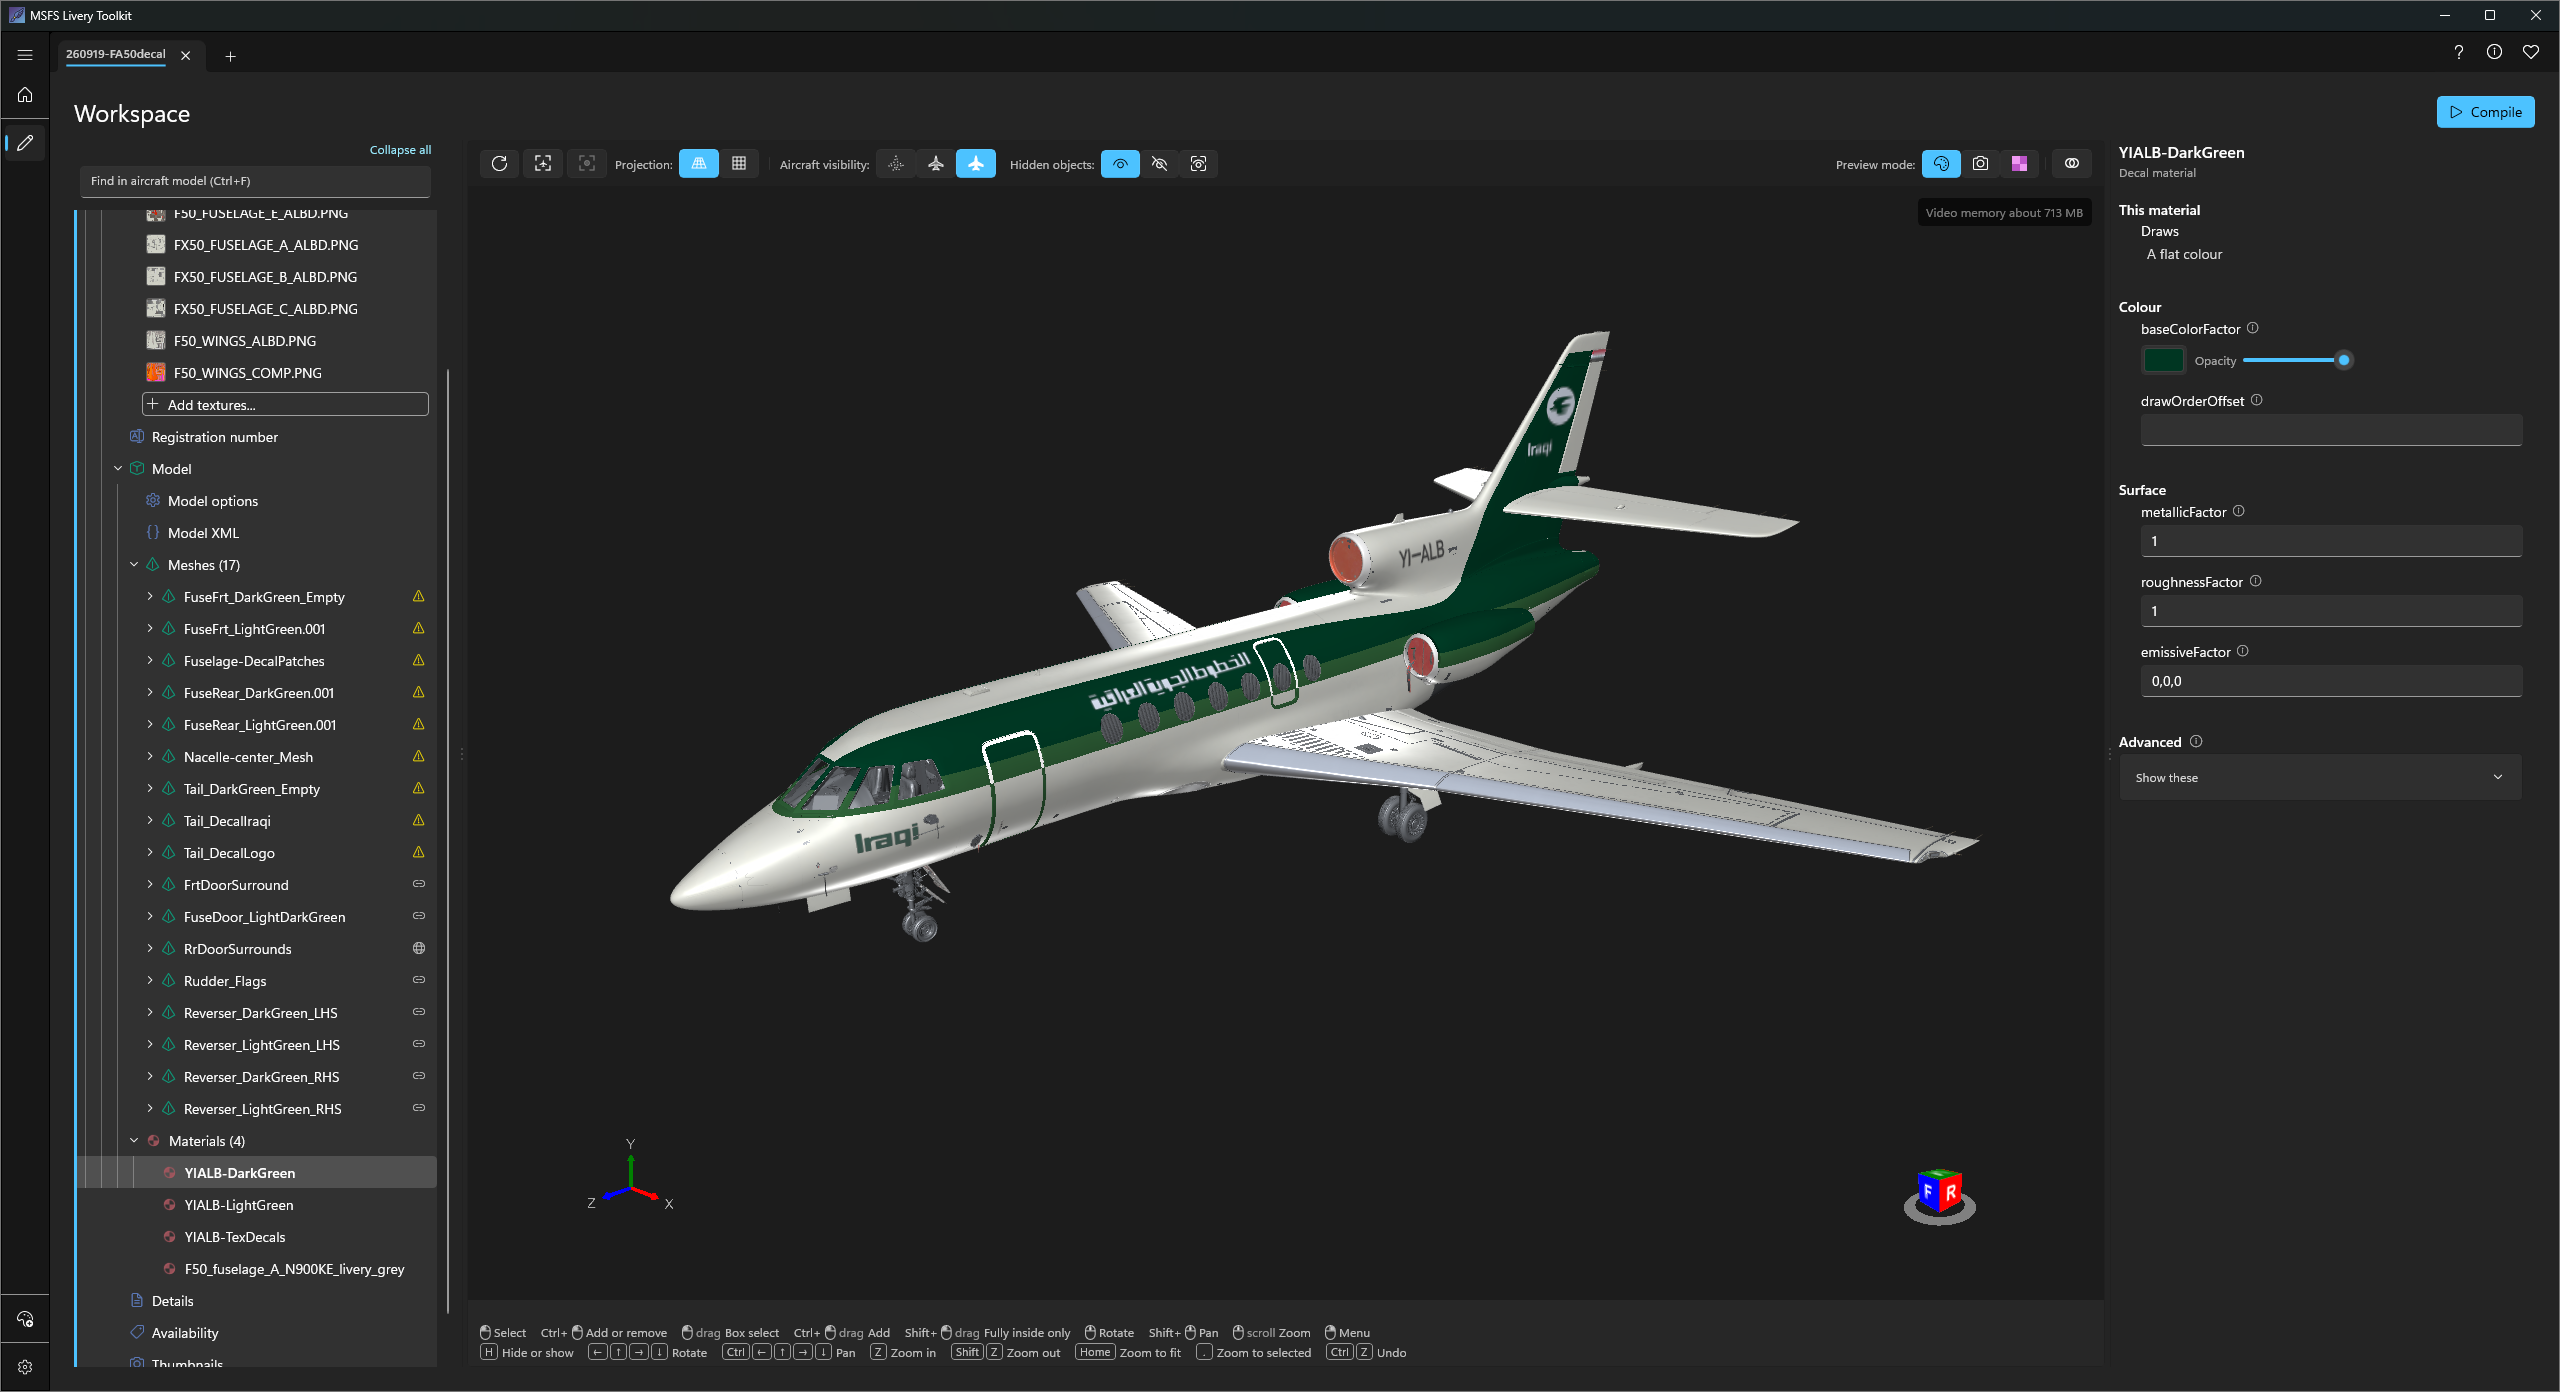
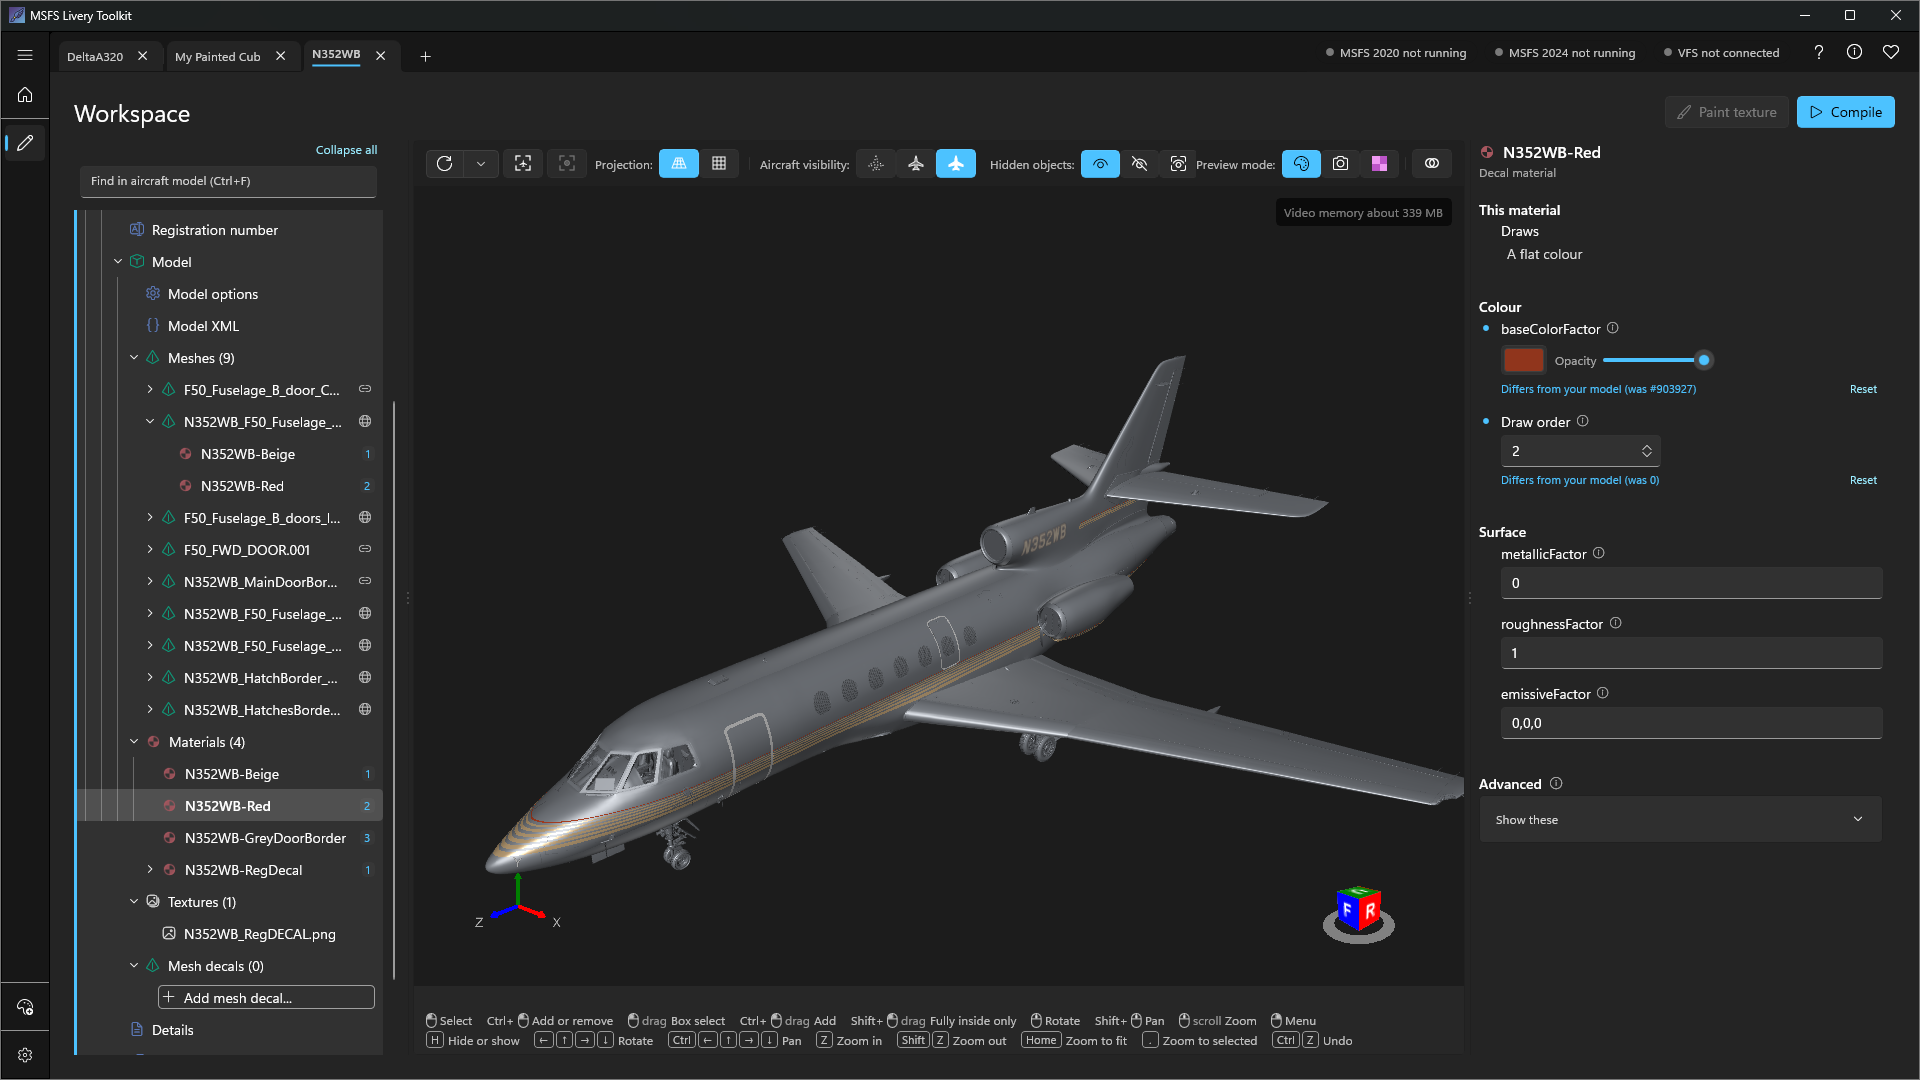
Docs for 2.2: mesh decal screenshots, Add MSFS 2020 aircraft button
The three Mesh decals page screenshots, mesh-material.png retaken with the
draw order badges and number box, and a line for the "Add MSFS 2020 aircraft"
button in Configuration and Getting started.

diff --git a/docs/configuration.md b/docs/configuration.md
@@ -21,7 +21,7 @@ The **Settings** page holds the settings the toolkit needs to find your aircraft
 
 ## Aircraft
 
-- **Aircraft source folders:** the folders scanned for base aircraft. Your MSFS Community folders are detected automatically, so there is no need to add them; **Detect Community folders** finds them again if needed. Add any other folder, such as an add-on linker location, with **Add folder...**.
+- **Aircraft source folders:** the folders scanned for base aircraft. Your MSFS Community folders are detected automatically, so there is no need to add them; **Detect Community folders** finds them again if needed. Add any other folder, such as an add-on linker location, with **Add folder...**. If MSFS 2020 is installed, **Add MSFS 2020 aircraft** adds the folders that hold its stock and Marketplace aircraft.
 - **Excluded texture keywords:** textures whose name or folder contains one of these words are left out of the texture list when you add a livery or add textures, to filter out textures livery artists rarely need, such as "tire" or "gauge". Edit the list as you need; **Restore defaults** puts it back.
 
 ## Projects and output

diff --git a/docs/getting-started.md b/docs/getting-started.md
@@ -20,7 +20,7 @@ Grab the latest portable release using the button above. There is no installer: 
 
 Before you can discover aircraft or compile anything, open the **Settings** page and set up:
 
-- **Aircraft source folders:** the folders scanned for installed base aircraft. Use **Detect Community folders** to find them automatically, and / or **Add folder…** to point at a Community / add-on-linker location manually.
+- **Aircraft source folders:** the folders scanned for installed base aircraft. Use **Detect Community folders** to find them automatically, and / or **Add folder…** to point at a Community / add-on-linker location manually. On MSFS 2020, select **Add MSFS 2020 aircraft** to include its stock and Marketplace aircraft.
 - **At least one MSFS SDK path:** (2020 or 2024). The app auto-detects the default install locations; confirm or correct them here.
 
 If either is missing, the Home page shows a **"Let's get you set up"** banner with a shortcut to Settings, and *Discover aircraft* stays disabled until it's resolved.
